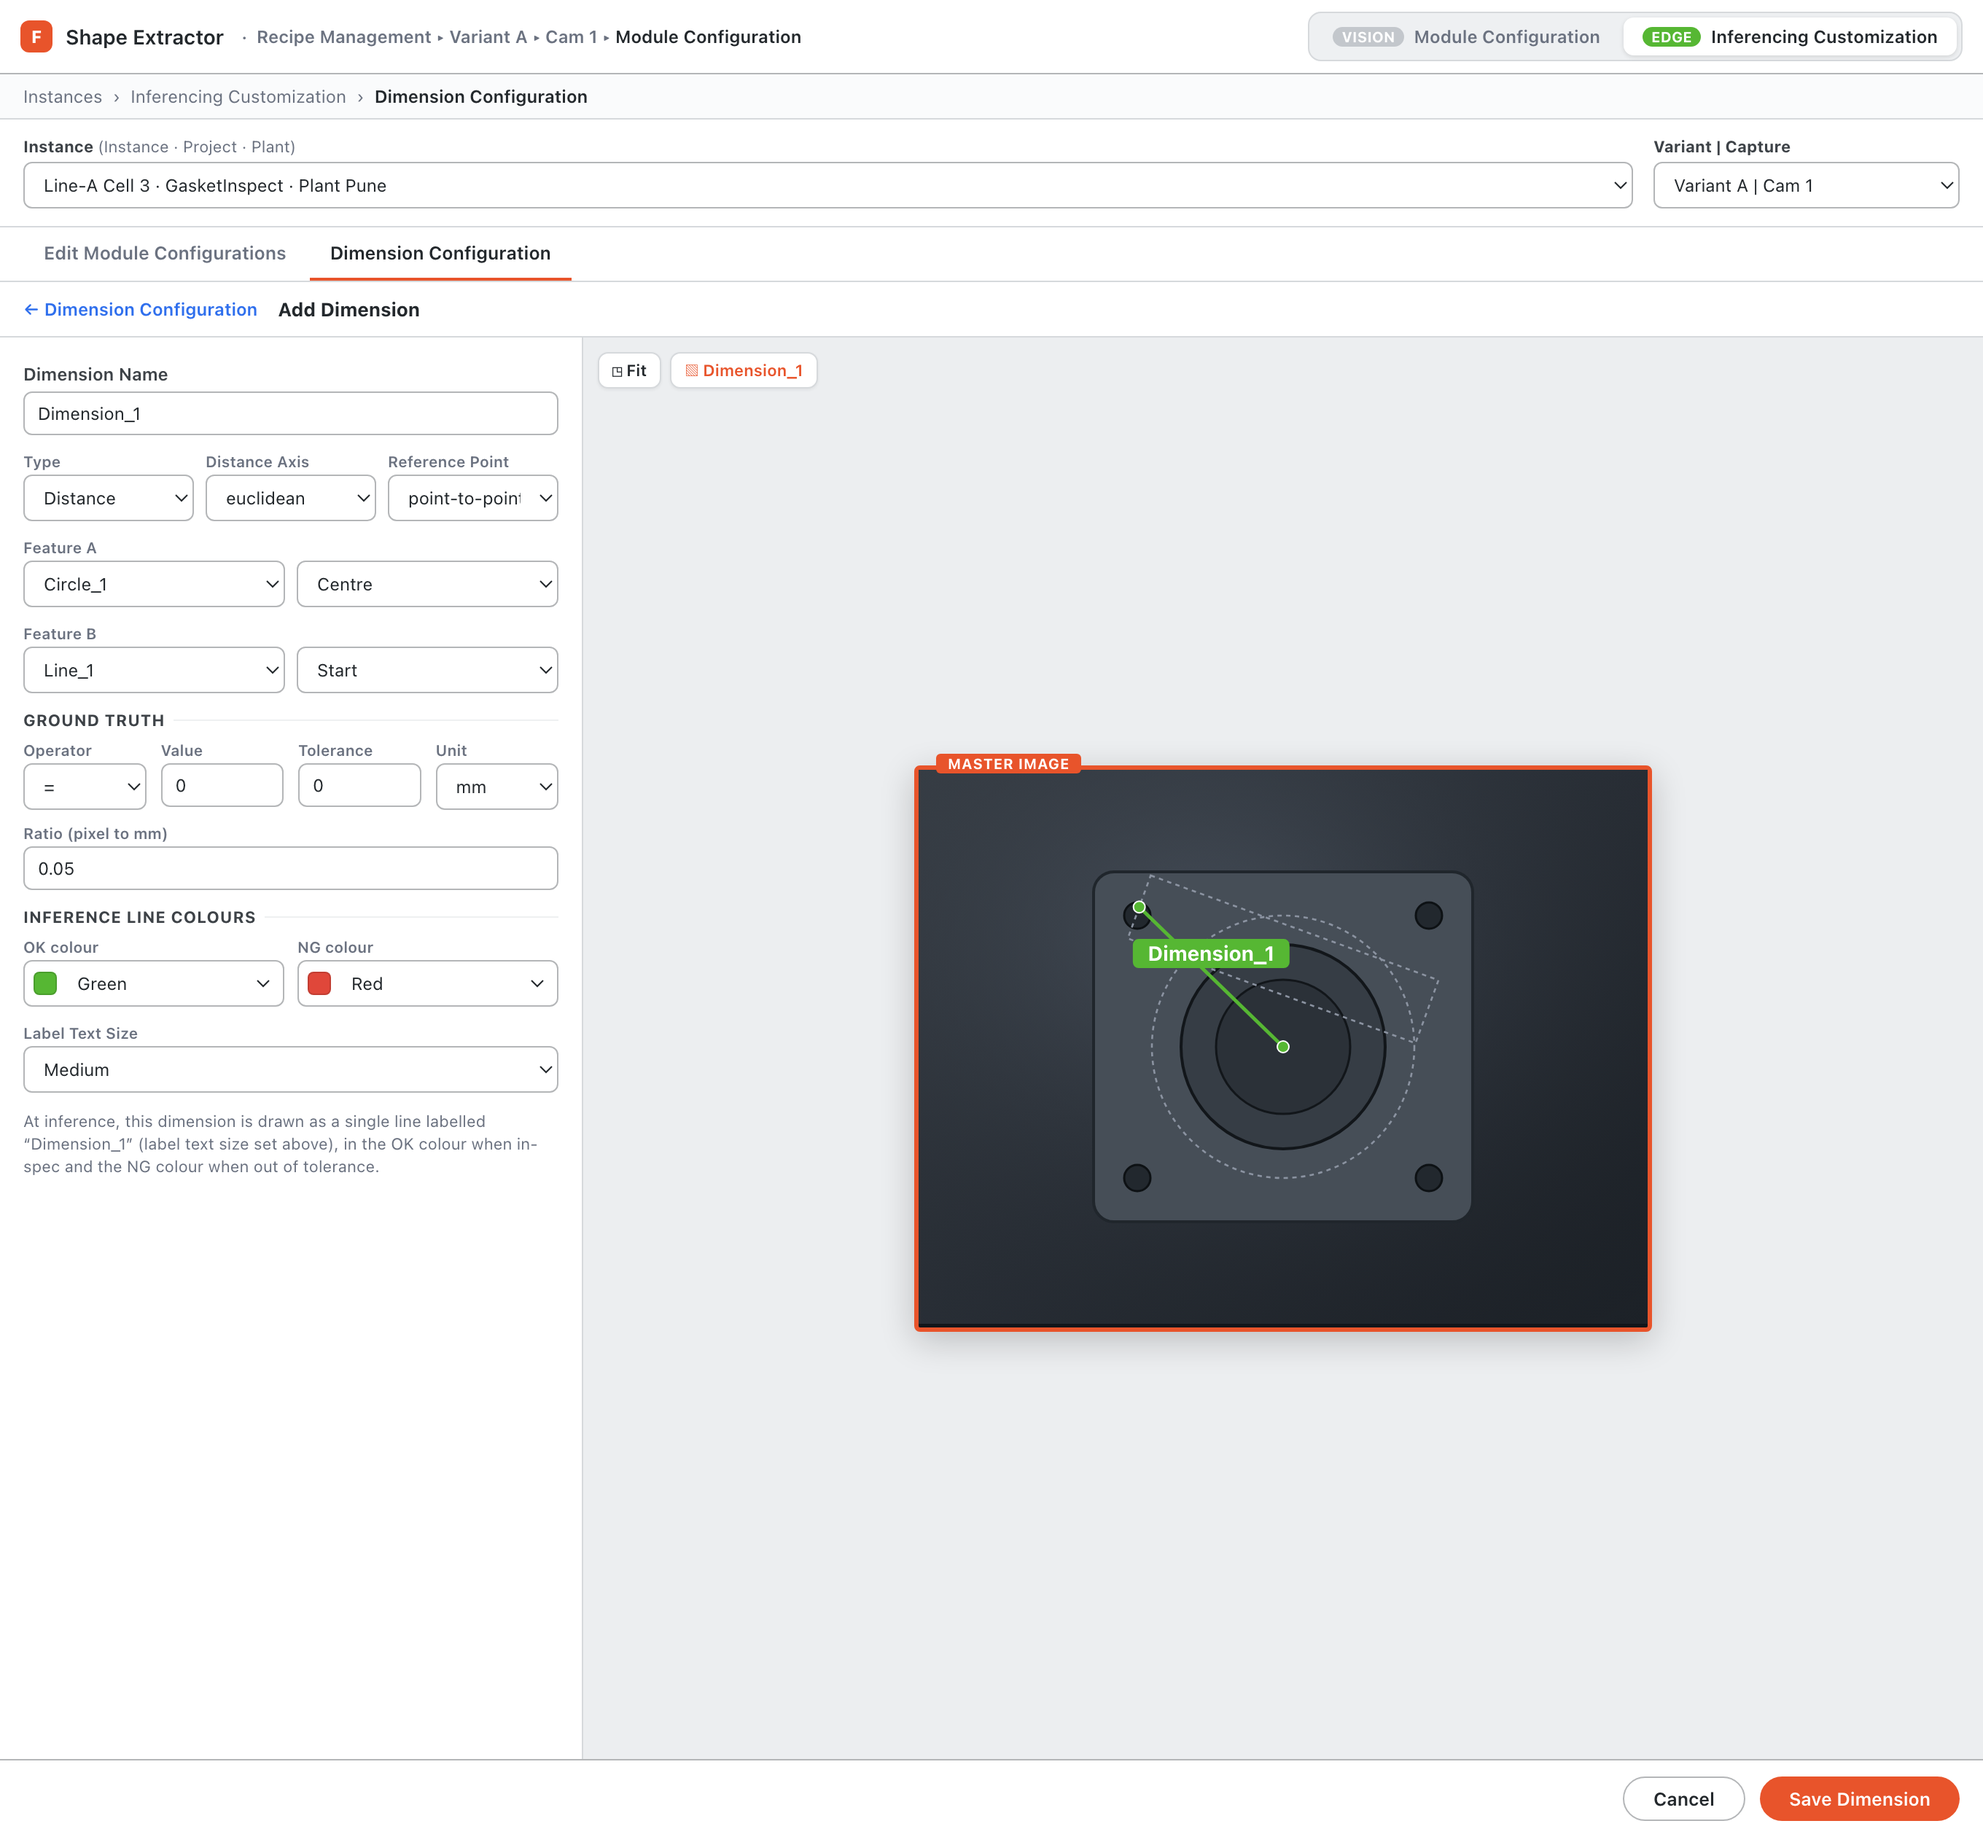
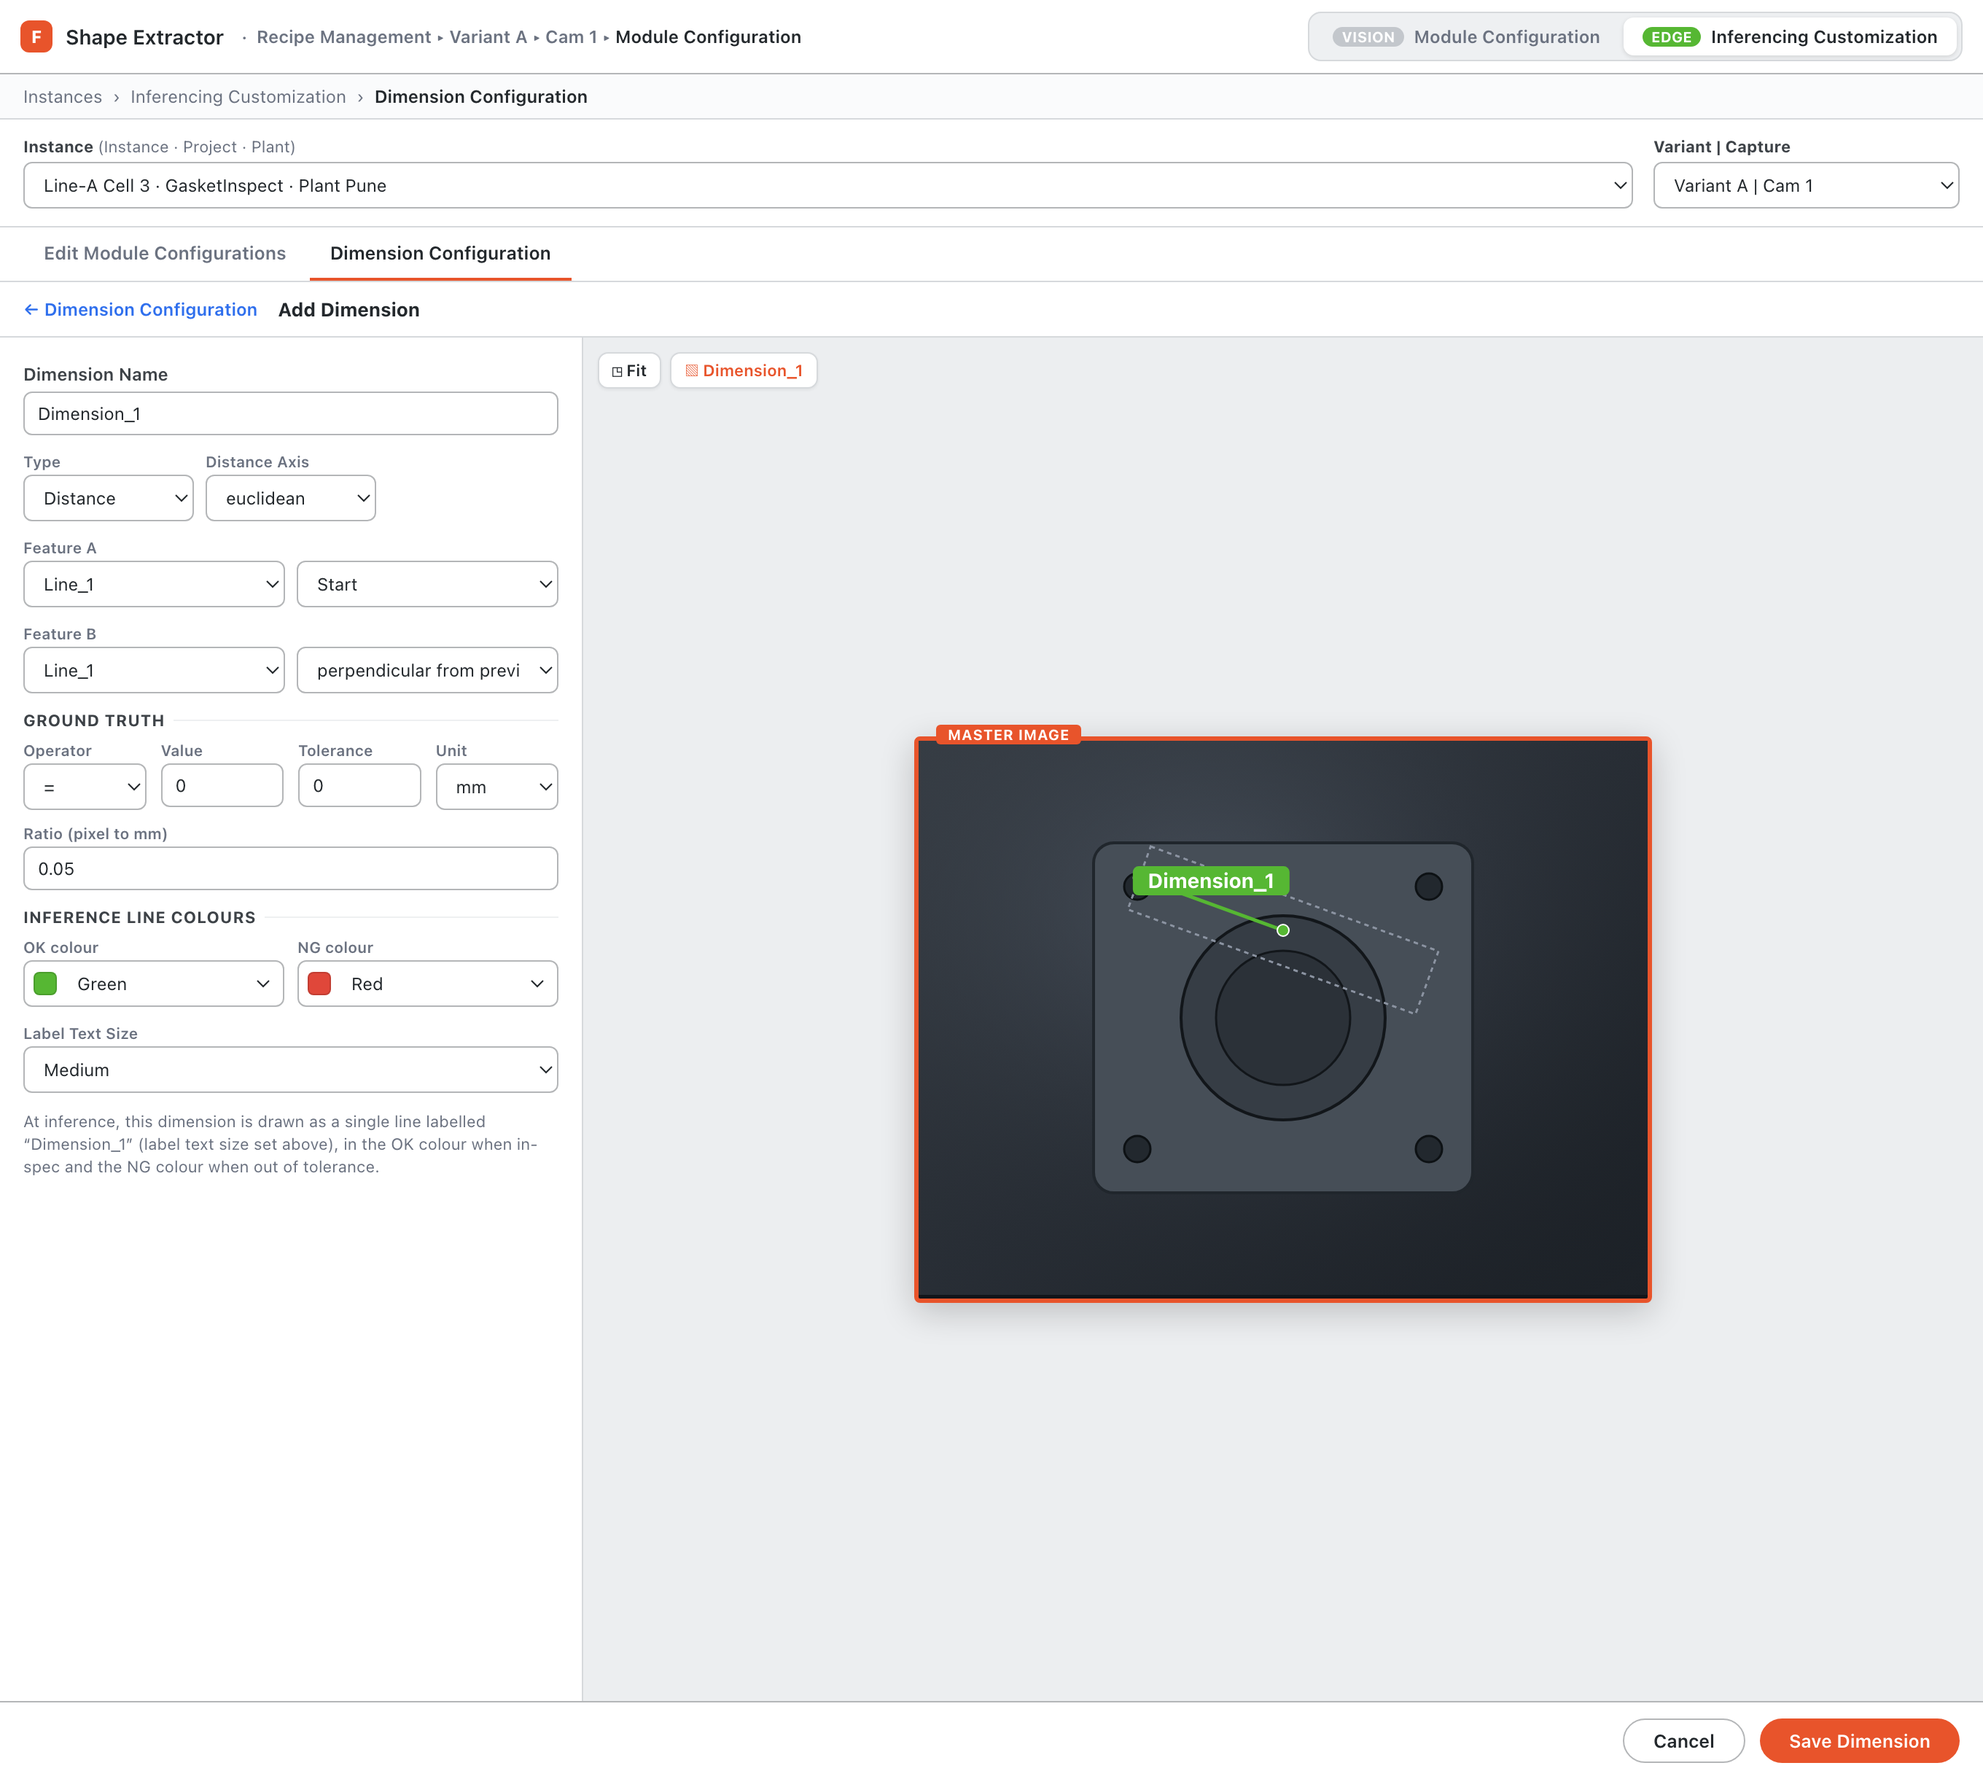
Dimensioning: Angle 'Angle from' (x/y axis or two features); Distance drops Reference Point, Feature B gains nearest + perpendicular(from-a-line); refresh FP-3228 shots

diff --git a/index.html b/index.html
@@ -1255,6 +1255,7 @@ const clone = (x) => JSON.parse(JSON.stringify(x));
 const DIST_AXIS_OPTS = ['x', 'y', 'euclidean'];
 const REF_POINT_OPTS = ['point-to-point', 'centre-to-centre', 'edge-to-edge', 'nearest'];
 const LABEL_SIZE_OPTS = [{ n: 'Small', px: 11 }, { n: 'Medium', px: 14 }, { n: 'Large', px: 18 }, { n: 'X-Large', px: 22 }];
+const ANGLE_MODE_OPTS = ['from x axis', 'from y axis', 'two features'];
 const UNIT_OPTS = ['mm', 'mm²', '°', 'px'];
 
 // Per-shape dimensioning features, split by kind. Multi-line shapes flatten to "Edge 2 · Middle".
@@ -1342,7 +1343,7 @@ function typeDefaults(type, shapes) {
 function makeDim(shapes, n) {
   return {
     id: 'dim_' + Math.floor(rnd() * 1e6), name: 'Dimension_' + n,
-    type: 2, distanceAxis: 'euclidean', refPoint: 'point-to-point', piecewise: false, labelSize: 14,
+    type: 2, distanceAxis: 'euclidean', angleMode: 'two features', piecewise: false, labelSize: 14,
     operator: 1, targetValue: 0, tolerance: 0, ratio: 0.05,
     okColor: '#56b733', ngColor: '#e0473a',   // inference line colours
     ...typeDefaults(2, shapes),
@@ -1555,8 +1556,9 @@ function shapeOutline(s, key) {
 // canvas preview of the dimension being drawn on the master image
 function DimensionCanvas({ dim, shapes }) {
   const cfg = DIM_TYPE_CFG[dim.type];
+  const two = dim.type === 1 ? (dim.angleMode || 'two features') === 'two features' : cfg.two;
   const sA = shapes.find((s) => s.id === dim.shapeOneId);
-  const sB = cfg.two ? shapes.find((s) => s.id === dim.shapeTwoId) : null;
+  const sB = two ? shapes.find((s) => s.id === dim.shapeTwoId) : null;
   const col = dim.okColor || '#56b733';
   const pA = sA ? featPoint(sA, dim.shapeOneSelector) : null;
   const pB = sB ? featPoint(sB, dim.shapeTwoSelector) : null;
@@ -1581,7 +1583,7 @@ function DimensionCanvas({ dim, shapes }) {
               </g>
             );
           })()}
-          {!cfg.two && pA && <text x={pA[0]} y={pA[1] + 18} fill={col} fontSize="10" fontWeight="700" textAnchor="middle">{cfg.name}</text>}
+          {!two && pA && <text x={pA[0]} y={pA[1] + 18} fill={col} fontSize="10" fontWeight="700" textAnchor="middle">{cfg.name}</text>}
         </svg>
       </div>
     </div>
@@ -1593,18 +1595,32 @@ function DimensionForm({ draft, setDraft, shapes }) {
   const cfg = DIM_TYPE_CFG[draft.type];
   const patch = (p) => setDraft({ ...draft, ...p });
   // 0d points a shape exposes (Peak is itself the point → none to pick).
-  const pointsOf = (id) => { const s = shapes.find((x) => x.id === id); return (s && s.type !== 'peak') ? ((SHAPE_FEATURES[s.type] || {}).points || []) : []; };
-  const p2p = cfg.axis && draft.refPoint === 'point-to-point';
-  // Per-feature sub-dropdown options: Length→scalar keys, Angle→line features, Distance(point-to-point)→0d points.
+  // Angle sub-mode: measure one feature against an axis, or between two features.
+  const angleMode = draft.angleMode || 'two features';
+  const twoFeatures = cfg.linePick ? angleMode === 'two features' : cfg.two;
+  const oneShape = shapes.find((x) => x.id === draft.shapeOneId);
+  const twoShape = shapes.find((x) => x.id === draft.shapeTwoId);
+  const oneIsPeak = (oneShape || {}).type === 'peak';
+  const twoIsPeak = (twoShape || {}).type === 'peak';
+  const oneIsLine = (oneShape || {}).type === 'line';
+  // Base per-feature sub-dropdown: Length→scalar keys, Angle→line features, Distance→0d points.
   const subOptsFor = (id) => {
     const s = shapes.find((x) => x.id === id); if (!s) return [];
     if (cfg.keyPick) return SHAPE_KEYS[s.type] || [];
     if (cfg.linePick) return (SHAPE_FEATURES[s.type] || {}).lines || [];
-    if (p2p && s.type !== 'peak') return (SHAPE_FEATURES[s.type] || {}).points || [];
+    if (cfg.axis && s.type !== 'peak') return (SHAPE_FEATURES[s.type] || {}).points || [];   // Distance → 0d points
     return [];
   };
-  // Angle hides the dropdown when a shape has only ONE line (Line); others show it when there are options.
-  const showSub = (id) => { const o = subOptsFor(id); return cfg.linePick ? o.length > 1 : o.length > 0; };
+  // Feature B (Distance) also offers derived measurements from Feature A's point.
+  const optsB = (() => {
+    const base = subOptsFor(draft.shapeTwoId);
+    if (!cfg.axis || twoIsPeak) return base;                          // Distance only; peak B has no dropdown
+    const extra = ['nearest from previous point'];
+    if (oneIsLine) extra.push('perpendicular from previous point');   // perpendicular needs a line as Feature A
+    return [...base, ...extra];
+  })();
+  const showSubA = (() => { const o = subOptsFor(draft.shapeOneId); return cfg.linePick ? o.length > 1 : o.length > 0; })();
+  const showSubB = cfg.linePick ? (subOptsFor(draft.shapeTwoId).length > 1) : (optsB.length > 0);
   const defSel = (id) => subOptsFor(id)[0] || '';
   const changeType = (type) => patch({ type, ...typeDefaults(type, shapes) });
   const changeShape = (which, id) => {
@@ -1612,9 +1628,6 @@ function DimensionForm({ draft, setDraft, shapes }) {
     patch(which === 'one' ? { shapeOneId: id, shapeOneSelector: sel } : { shapeTwoId: id, shapeTwoSelector: sel });
   };
   const validShapes = shapes.filter((s) => shapeQualifies(s, draft.type));
-  const aFeats = featuresOf(shapes.find((s) => s.id === draft.shapeOneId), draft.type);
-  const oneIsPeak = (shapes.find((x) => x.id === draft.shapeOneId) || {}).type === 'peak';
-  const twoIsPeak = (shapes.find((x) => x.id === draft.shapeTwoId) || {}).type === 'peak';
   const shapeSelect = (val, onCh) => (
     <select className="sel" value={val} onChange={onCh}>{validShapes.map((s) => <option key={s.id} value={s.id}>{s.name}</option>)}</select>
   );
@@ -1632,27 +1645,27 @@ function DimensionForm({ draft, setDraft, shapes }) {
         </div>
         {cfg.axis && <div><span className="tinylab">Distance Axis</span>
           <select className="sel" value={draft.distanceAxis} onChange={(e) => patch({ distanceAxis: e.target.value })}>{DIST_AXIS_OPTS.map((o) => <option key={o}>{o}</option>)}</select></div>}
-        {cfg.axis && <div><span className="tinylab">Reference Point</span>
-          <select className="sel" value={draft.refPoint} onChange={(e) => { const rp = e.target.value; const u = { refPoint: rp }; if (rp === 'point-to-point') { u.shapeOneSelector = pointsOf(draft.shapeOneId)[0] || ''; u.shapeTwoSelector = pointsOf(draft.shapeTwoId)[0] || ''; } patch(u); }}>{REF_POINT_OPTS.map((o) => <option key={o}>{o}</option>)}</select></div>}
+        {cfg.linePick && <div><span className="tinylab">Angle from</span>
+          <select className="sel" value={angleMode} onChange={(e) => patch({ angleMode: e.target.value })}>{ANGLE_MODE_OPTS.map((o) => <option key={o}>{o}</option>)}</select></div>}
         {cfg.piecewise && <div><span className="tinylab">Piecewise</span>
           <select className="sel" value={draft.piecewise ? 'Yes' : 'No'} onChange={(e) => patch({ piecewise: e.target.value === 'Yes' })}><option>No</option><option>Yes</option></select></div>}
       </div>
       <div className="field">
-        <span className="tinylab">{cfg.two ? 'Feature A' : 'Feature'}</span>
+        <span className="tinylab">{twoFeatures ? 'Feature A' : 'Feature'}</span>
         <div className="feat">
           {shapeSelect(draft.shapeOneId, (e) => changeShape('one', e.target.value))}
-          {showSub(draft.shapeOneId) && <select className="sel" value={draft.shapeOneSelector} onChange={(e) => patch({ shapeOneSelector: e.target.value })}>{subOptsFor(draft.shapeOneId).map((f) => <option key={f}>{f}</option>)}</select>}
+          {showSubA && <select className="sel" value={draft.shapeOneSelector} onChange={(e) => patch({ shapeOneSelector: e.target.value })}>{subOptsFor(draft.shapeOneId).map((f) => <option key={f}>{f}</option>)}</select>}
         </div>
-        {p2p && oneIsPeak && <div className="hint">Peak is itself the point.</div>}
+        {cfg.axis && oneIsPeak && <div className="hint">Peak is itself the point.</div>}
       </div>
-      {cfg.two && (
+      {twoFeatures && (
         <div className="field">
           <span className="tinylab">Feature B</span>
           <div className="feat">
             {shapeSelect(draft.shapeTwoId, (e) => changeShape('two', e.target.value))}
-            {showSub(draft.shapeTwoId) && <select className="sel" value={draft.shapeTwoSelector} onChange={(e) => patch({ shapeTwoSelector: e.target.value })}>{subOptsFor(draft.shapeTwoId).map((f) => <option key={f}>{f}</option>)}</select>}
+            {showSubB && <select className="sel" value={draft.shapeTwoSelector} onChange={(e) => patch({ shapeTwoSelector: e.target.value })}>{optsB.map((f) => <option key={f}>{f}</option>)}</select>}
           </div>
-          {p2p && twoIsPeak && <div className="hint">Peak is itself the point.</div>}
+          {cfg.axis && twoIsPeak && <div className="hint">Peak is itself the point.</div>}
         </div>
       )}
       {cfg.gt && (
@@ -1749,13 +1762,14 @@ function DimensionConfig({ dims, setDims, shapes }) {
           <tbody>
             {dims.map((d, i) => {
               const cfg = DIM_TYPE_CFG[d.type], op = { 1: '=', 2: '>', 3: '<' }[d.operator];
+              const two = d.type === 1 ? (d.angleMode || 'two features') === 'two features' : cfg.two;
               return (
                 <tr key={d.id}>
                   <td>{i + 1}</td>
                   <td><span className="dot" style={{ background: d.okColor }} />{d.name}</td>
                   <td>{cfg.name}</td>
                   <td>{shapeName(d.shapeOneId)}{d.shapeOneSelector ? ` · ${d.shapeOneSelector}` : ''}</td>
-                  <td>{cfg.two ? `${shapeName(d.shapeTwoId)}${d.shapeTwoSelector ? ` · ${d.shapeTwoSelector}` : ''}` : '—'}</td>
+                  <td>{two ? `${shapeName(d.shapeTwoId)}${d.shapeTwoSelector ? ` · ${d.shapeTwoSelector}` : ''}` : '—'}</td>
                   <td>{cfg.gt ? `${op} ${d.targetValue} ± ${d.tolerance} ${d.unit}` : '—'}</td>
                   <td className="acts">
                     <span title="Edit" onClick={() => startEdit(d)}>✎</span>
